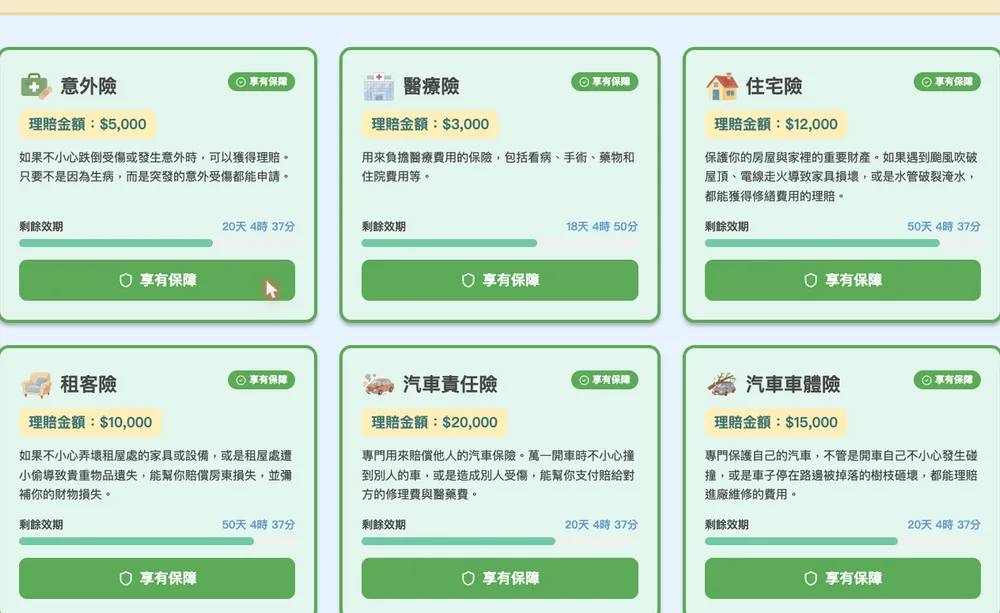
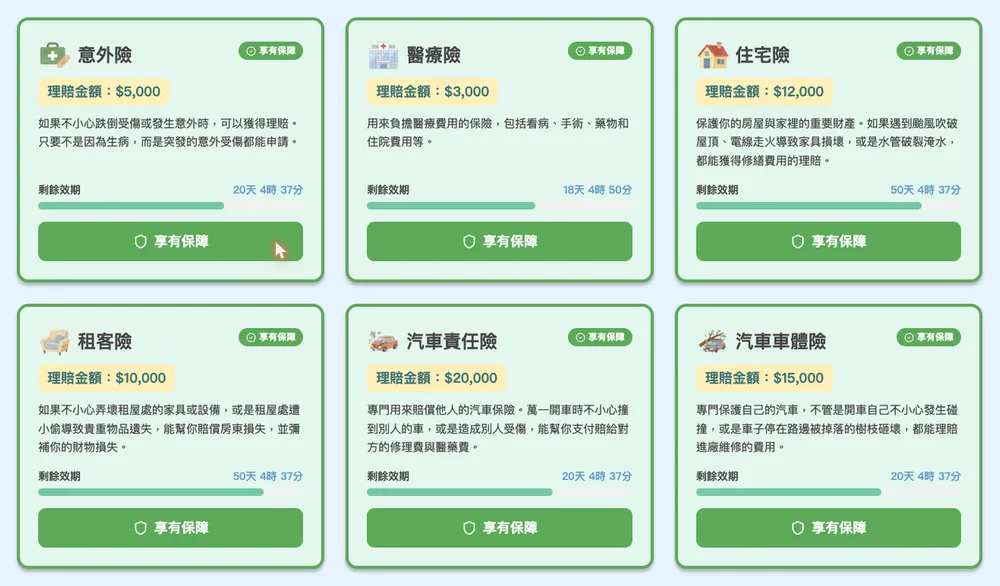
保險圖重裁：補回被切掉的卡片框線
保旭指出圖片切到外框線。逐像素掃描確認：六張卡的綠框實際落在
x 281–1639、y 115–890，前一版裁切 (285,52,1635,880) 切掉左右各 4px、
底部 10px 的框線，上方卻多留 63px 空白——四邊完全不對稱。

重裁 (257,91,1664,915)，四邊各留 24px 均勻留白。逐邊驗證：留白區
綠框像素 0、四邊框線完整存在。比例 1.63→1.71，宣告尺寸同步改為
1000×586。

diff --git a/index.html b/index.html
@@ -1793,7 +1793,7 @@
               <h3>保險</h3>
               <p>醫療險、意外險、手機險、寵物險……9 種保險商品。先花一小筆錢換一份保障，值不值得？讓孩子自己算。<strong>前面那張「重感冒住院」的命運卡，買了醫療險的孩子就是在這裡把錢賠回來的。</strong></p>
               <figure class="shot shot-tight">
-                <img src="assets/shot-insurance.webp" width="1000" height="613" decoding="async" loading="lazy"
+                <img src="assets/shot-insurance.webp" width="1000" height="586" decoding="async" loading="lazy"
                      alt="財商學習平台的保險商品實際畫面：意外險 $5,000、醫療險 $3,000、住宅險 $12,000、租客險 $10,000、汽車責任險 $20,000、汽車車體險 $15,000 六張保單並列，各自標示理賠金額、說明與剩餘效期">
                 <figcaption>平台實際畫面・9 種保險商品中的 6 種，每一張都標著理賠金額。命運卡「重感冒發燒住院」要付的 3,000，買了醫療險的孩子就是在這裡賠回來的（理賠金額皆為平台實際設定的模擬金幣）。</figcaption>
               </figure>
